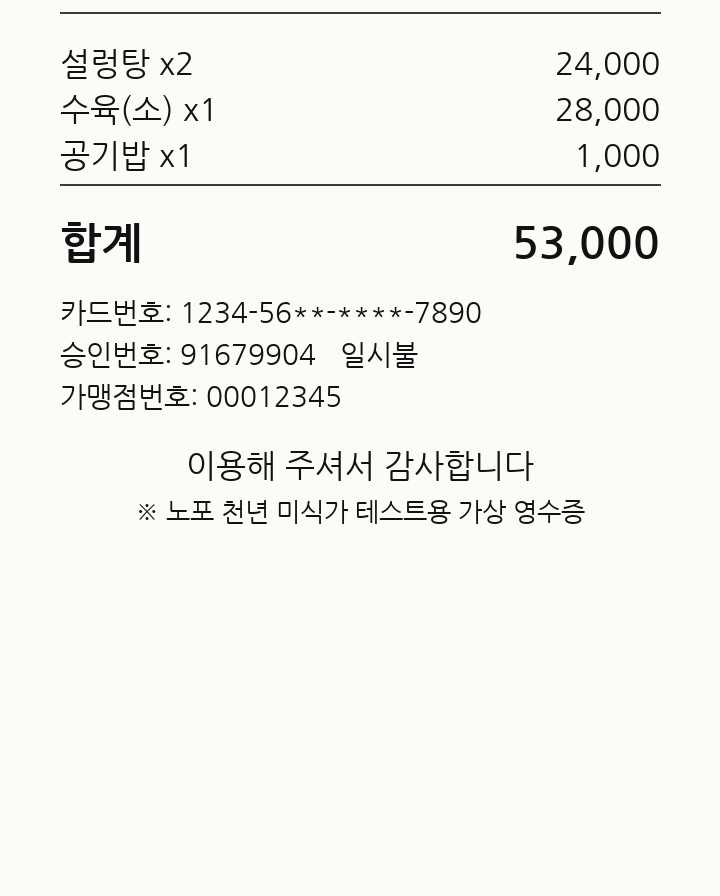
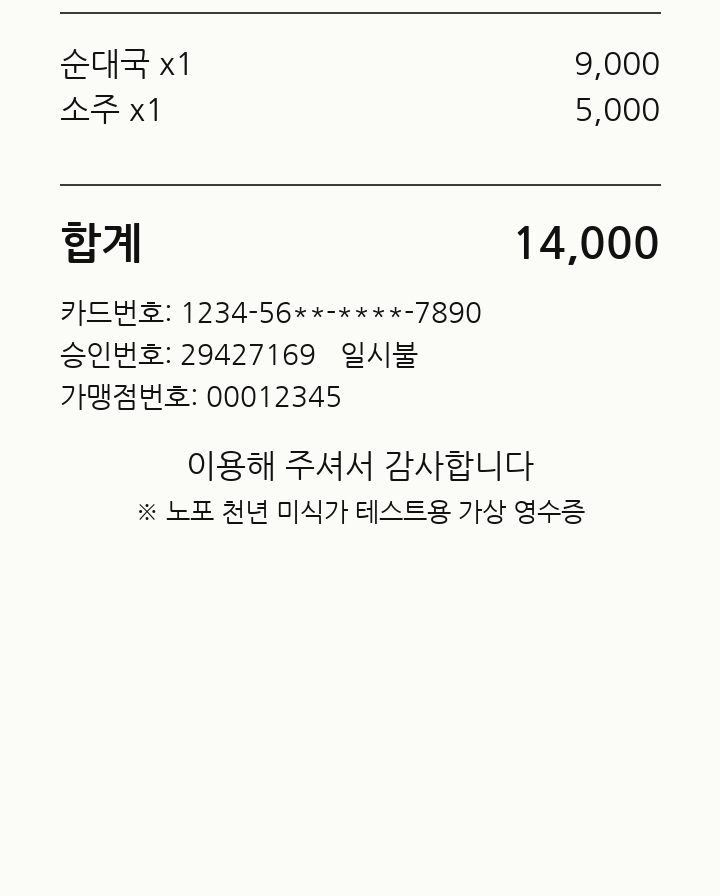
시연 시나리오 전면 재정리: 영수증 3종+AI 도우미 시나리오 10개, 시나리오 페이지·가이드 갱신

diff --git a/tools/test-images/demo_scenarios.html b/tools/test-images/demo_scenarios.html
@@ -1,19 +1,42 @@
 <!doctype html>
 <html lang="ko"><head><meta charset="utf-8"><meta name="viewport" content="width=device-width,initial-scale=1">
-<title>노포 천년 미식가 시연 시나리오 (2026-10-21 09:56)</title>
+<title>노포 천년 미식가 시연 시나리오 (2026-10-21 10:38)</title>
 <style>
-body{margin:0;background:#1d2b28;color:#eef;font-family:'Noto Sans KR','Malgun Gothic',sans-serif}
-nav{position:sticky;top:0;background:#12201d;padding:10px 16px;display:flex;gap:8px;flex-wrap:wrap}
-nav button{background:#2f6f66;color:#fff;border:0;border-radius:8px;padding:10px 14px;font-size:16px;cursor:pointer}
-section{display:none;text-align:center;padding:12px}
-section.on{display:block}
-img{max-height:86vh;max-width:100%;border:6px solid #fff;border-radius:6px}
-h2{margin:6px 0} p{margin:0 0 10px;color:#bcd}
+*{box-sizing:border-box}
+body{margin:0;background:#14221f;color:#eef3f2;font-family:'Noto Sans KR','Malgun Gothic',sans-serif;display:flex;height:100vh}
+aside{width:300px;background:#0e1a18;overflow:auto;padding:12px}
+aside h3{margin:14px 6px 6px;color:#9bc;font-size:13px}
+aside button{display:block;width:100%;text-align:left;background:#1c332f;color:#fff;border:0;border-radius:8px;padding:10px 12px;margin:4px 0;font-size:15px;cursor:pointer}
+aside button.on{background:#2f7f73}
+main{flex:1;overflow:auto;padding:18px 24px;display:flex;gap:24px}
+.info{width:380px;flex:none}
+.info h1{font-size:22px;margin:0 0 10px}
+.info ol{padding-left:20px;line-height:1.6}
+.expect{background:#1c332f;border-left:4px solid #e0b64a;padding:10px 12px;border-radius:6px;margin-top:14px;line-height:1.5}
+.stage{flex:1;text-align:center}
+.stage .tabs button{background:#2f7f73;color:#fff;border:0;border-radius:8px;padding:8px 14px;margin:0 4px 10px;font-size:15px;cursor:pointer}
+.stage .tabs button.on{background:#e0b64a;color:#111}
+.stage img{max-height:88vh;max-width:100%;border:6px solid #fff;border-radius:6px}
+.noimg{color:#9bc;margin-top:30vh;font-size:18px}
+small{color:#9bc}
 </style></head><body>
-<nav><button onclick="show(0)">①</button><button onclick="show(1)">②</button><button onclick="show(2)">③</button><button onclick="show(3)">⑤</button><button onclick="show(4)">⑥</button><button onclick="show(5)">⑦</button><button onclick="show(6)">④</button><button onclick="show(7)">④</button></nav>
-<section><h2>① 영수증 잘 찍힘 → 바로 인증</h2><p>영수증 인증 → 도장 → 리뷰 작성</p><img src="test_receipt_today.png" alt="① 영수증 잘 찍힘 → 바로 인증"></section><section><h2>② 영수증 24시간 지남</h2><p>E_RECEIPT_EXPIRED 안내 → 가게 사진 인증으로 이어가기</p><img src="test_receipt_expired.png" alt="② 영수증 24시간 지남"></section><section><h2>③ 다른 가게 영수증</h2><p>E_RECEIPT_MISMATCH 안내</p><img src="test_receipt_other.png" alt="③ 다른 가게 영수증"></section><section><h2>⑤ 위쪽이 잘린 영수증 (AI 촬영 도우미)</h2><p>가게 이름이 잘려 인식 실패 → AI가 '위쪽까지 찍어 주세요' 안내</p><img src="test_receipt_cut_top.png" alt="⑤ 위쪽이 잘린 영수증 (AI 촬영 도우미)"></section><section><h2>⑥ 흐린 영수증 (AI 촬영 도우미)</h2><p>글자가 흐려 인식 실패 → AI가 초점·거리 안내</p><img src="test_receipt_blur.png" alt="⑥ 흐린 영수증 (AI 촬영 도우미)"></section><section><h2>⑦ 어두운 영수증 (AI 촬영 도우미)</h2><p>너무 어두워 인식 실패 → AI가 밝은 곳 안내</p><img src="test_receipt_dark.png" alt="⑦ 어두운 영수증 (AI 촬영 도우미)"></section><section><h2>④ 메뉴판(가게 사진 인증용)</h2><p>위치 확인 → 가게 사진 인증(간판·메뉴판)</p><img src="test_menuboard.png" alt="④ 메뉴판(가게 사진 인증용)"></section><section><h2>④ 간판(가게 사진 인증용)</h2><p>위치 확인 → 가게 사진 인증(간판·메뉴판)</p><img src="test_sign.png" alt="④ 간판(가게 사진 인증용)"></section>
+<aside id="nav"></aside>
+<main><div class="info"><h1 id="t"></h1><ol id="s"></ol><div class="expect" id="e"></div><p><small>생성 2026-10-21 10:38 · 영수증은 이 시각부터 24시간 안에만 유효</small></p></div>
+<div class="stage"><div class="tabs" id="tabs"></div><div id="img"></div></div></main>
 <script>
-const s=[...document.querySelectorAll('section')];
-function show(i){s.forEach((e,j)=>e.classList.toggle('on',i===j));}
-show(0);
+const S=[{"id": "1", "group": "영수증·인증", "title": "인증 전에는 리뷰를 쓸 수 없다", "steps": ["지도 탐색 > 목록 > 맨 위 노포천년테스트식당(0m) 열기", "아래로 내려 \"평점과 리뷰\" 확인"], "expect": "\"방문 인증한 사람만 평점을 남길 수 있어요\" 안내만 보이고 작성 버튼이 없다. 예시 리뷰 12개·재방문율 33%는 보인다.", "images": []}, {"id": "2", "group": "영수증·인증", "title": "영수증이 잘 찍혀 바로 인증 (스캔 연출 → 도장 → 폭죽 → 리뷰)", "steps": ["방문 인증하기 > 영수증 촬영 화면", "아래 \"정상 영수증 A\"를 모니터에 크게 띄우고 틀 안에 맞춰 촬영하기", "빨간 레이저가 영수증을 위아래로 훑고 → 읽은 글자에 형광펜이 칠해지는 것을 보여 준다", "도장이 쾅 찍힘(진동) → 폭죽·색종이 → \"평점·리뷰 남기기\" 누르기", "리뷰 편집기에서 별점·글 + 사진(카메라/앨범 최대 3장) 저장"], "expect": "스캔 연출 → 도장(46년 아님: 시험용 가게라 세월·하루 한도에는 안 들어감) → 폭죽 → 리뷰 작성. 내 리뷰는 이 기기에만 저장되고 평균에 합쳐진다.", "images": [["정상 영수증 A", "test_receipt_a.png"]]}, {"id": "3", "group": "영수증·인증", "title": "영수증 위쪽이 잘렸을 때 → AI 촬영 도우미 → 다시 찍어 성공", "steps": ["방문 인증하기 > \"위쪽이 잘린 영수증\" 촬영", "형광펜 연출 뒤 오류 문구와 함께 AI 촬영 도우미 팝업이 뜬다(처음이면 전송 동의 창이 먼저)", "팝업의 \"다시 찍기\" 누르기 → 카메라로 복귀", "\"정상 영수증 B\"를 촬영해 인증 성공"], "expect": "AI가 \"가게 이름이 잘렸어요, 영수증 위쪽까지 담아 주세요\" 같은 한두 문장을 알려 준다. 다시 찍으면 성공.", "images": [["위쪽 잘림", "test_receipt_cut_top.png"], ["정상 영수증 B", "test_receipt_b.png"]]}, {"id": "4", "group": "영수증·인증", "title": "영수증이 흐리거나 어두울 때 → AI 촬영 도우미", "steps": ["방문 인증하기 > \"흐린 영수증\" 촬영 → 팝업 확인", "다시 찍기 > \"어두운 영수증\" 촬영 → 팝업 확인"], "expect": "흐림은 \"초점·평평하게\", 어두움은 \"밝은 곳에서\" 같은 원인별 안내가 나온다.", "images": [["흐린 영수증", "test_receipt_blur.png"], ["어두운 영수증", "test_receipt_dark.png"]]}, {"id": "5", "group": "영수증·인증", "title": "다른 가게 영수증 / 24시간 지난 영수증", "steps": ["\"다른 가게 영수증(행복분식)\" 촬영 → \"영수증의 가게 이름이 달라요\" + AI 안내", "\"24시간 지난 영수증\" 촬영 → \"영수증이 24시간이 지났어요\""], "expect": "각각 E_RECEIPT_MISMATCH, E_RECEIPT_EXPIRED 안내. 기록은 남지 않는다.", "images": [["다른 가게(행복분식)", "test_receipt_other.png"], ["24시간 지남", "test_receipt_expired.png"]]}, {"id": "6", "group": "영수증·인증", "title": "영수증이 없거나 계속 안 될 때 → 가게 사진 + 위치(30m)로 인증", "steps": ["영수증 화면에서 \"영수증이 없어요\" > 내 위치 확인(테스트 가게는 지금 서 있는 자리라 거리 0m)", "간판 또는 메뉴판 촬영(아래 그림을 모니터에 띄움)", "글자 확인이 3번 실패하면(일부러 엉뚱한 곳 촬영) \"위치 확인 도장\" 선택지가 나온다(설정 스위치로 끌 수 있음)"], "expect": "도장(인증 방법: 가게 사진 또는 위치 확인) → 같은 폭죽 연출 → 리뷰 작성.", "images": [["메뉴판", "test_menuboard.png"], ["간판", "test_sign.png"]]}, {"id": "7", "group": "AI 기능", "title": "AI 번역 (외국인 친구에게 보여 주기)", "steps": ["아무 가게 상세 > 소개글 아래 \"AI 번역\" > English / 日本語 / 简体中文 …", "\"직접 입력\"으로 Thai 같은 언어도 시도", "\"원문 보기\"로 되돌리기"], "expect": "소개글·한 줄 소개·리뷰가 선택한 언어로 바뀌고, 메뉴 이름은 원어가 괄호로 붙는다.", "images": []}, {"id": "8", "group": "AI 기능", "title": "AI 노포 도우미 (지도 맨 위)", "steps": ["지도 탭 맨 위 \"AI 노포 도우미\" 열기", "칩 3개를 차례로: 말로 찾기(비 오는 날 종로…) / 천년 경로(남은 세월 채우는 코스) / 오늘의 노포 코스(지금 위치·영업시간)", "추천 카드를 눌러 가게 상세로 이동", "앱을 껐다 켜서 다시 열면 이전 대화가 그대로", "\"기록 지우기\""], "expect": "후보 가게 안에서만 추천(지어낸 가게 없음), 대화는 이 기기에만 저장.", "images": []}, {"id": "9", "group": "AI 기능", "title": "AI 메뉴 룰렛 · 가게 리뷰 AI 분석", "steps": ["내 패스포트 > \"AI 메뉴 룰렛\" > 룰렛 돌리기(분석 후 메뉴 3개 + 이유·주재료)", "\"마음에 안 들어요, 다시 돌리기\"를 여러 번(최대 10번 = 서로 다른 메뉴 30개)", "리뷰가 많은 가게(송파구 가게·테스트 가게) 상세 > \"AI로 리뷰 분석하기\""], "expect": "룰렛은 앞서 나온 메뉴가 다시 안 나오고 \"본 메뉴 n/30\"이 올라간다. 리뷰 분석은 특장점·추천 메뉴·아쉬운 점·어울리는 사람을 보여 준다.", "images": []}, {"id": "10", "group": "연출·패스포트", "title": "칭호 11단계·도감·승급 연출, 공유 카드, 명예의 전당", "steps": ["내 패스포트 > 칭호 배지 누르기 > 칭호 도감 > 아무 칭호를 눌러 승급 연출 미리보기", "설정 5탭 > 개발자 도구 > \"연출 미리보기: 금빛 도장 + 칭호 승급\"(도장 → 폭죽 → 승급)", "패스포트 > \"패스포트 카드 공유\"(QR 포함) / \"식객 명예의 전당 보기\""], "expect": "100년마다 바뀌는 11개 칭호와 배지 색, 화려한 승급 연출, 공유 카드(QR), 시연용 순위.", "images": []}];
+const nav=document.getElementById('nav');let cur=0,sub=0;
+let lastGroup='';
+S.forEach((sc,i)=>{if(sc.group!==lastGroup){nav.insertAdjacentHTML('beforeend','<h3>'+sc.group+'</h3>');lastGroup=sc.group}
+ const b=document.createElement('button');b.textContent=sc.id+'. '+sc.title;b.onclick=()=>{cur=i;sub=0;render()};b.id='b'+i;nav.appendChild(b)});
+function render(){const sc=S[cur];
+ S.forEach((_,i)=>document.getElementById('b'+i).classList.toggle('on',i===cur));
+ document.getElementById('t').textContent=sc.id+'. '+sc.title;
+ document.getElementById('s').innerHTML=sc.steps.map(x=>'<li>'+x+'</li>').join('');
+ document.getElementById('e').innerHTML='<b>기대 결과</b><br>'+sc.expect;
+ const tabs=document.getElementById('tabs');tabs.innerHTML='';
+ sc.images.forEach((im,j)=>{const b=document.createElement('button');b.textContent=im[0];b.className=j===sub?'on':'';b.onclick=()=>{sub=j;render()};tabs.appendChild(b)});
+ document.getElementById('img').innerHTML=sc.images.length?'<img src="'+sc.images[sub][1]+'">':'<div class="noimg">이 시나리오는 그림 없이 앱에서 직접 진행해요</div>';}
+document.addEventListener('keydown',e=>{if(e.key==='ArrowDown'){cur=Math.min(S.length-1,cur+1);sub=0;render()}if(e.key==='ArrowUp'){cur=Math.max(0,cur-1);sub=0;render()}});
+render();
 </script></body></html>

diff --git a/tools/gen_test_receipt.py b/tools/gen_test_receipt.py
@@ -1,15 +1,18 @@
 #!/usr/bin/env python3
-"""시연·시험용 가상 영수증·간판·메뉴판 만들기. 다른 화면(모니터)에 띄우고 앱 카메라로 찍는다.
+"""시연·시험용 가상 영수증·간판·메뉴판과 시연 시나리오 페이지 만들기. 다른 화면(모니터)에 띄우고 앱 카메라로 찍는다.
 
-    python tools/gen_test_receipt.py   ->  tools/test-images/ 아래에
-        test_receipt_today.png    현재 시각 영수증 (24시간 안에 사용)          -> 영수증 인증 성공
-        test_receipt_expired.png   50시간 전 영수증                              -> E_RECEIPT_EXPIRED
-        test_receipt_other.png     다른 가게(행복분식) 영수증, 현재 시각           -> E_RECEIPT_MISMATCH
-        test_menuboard.png         메뉴판(가게 이름 포함)                         -> 가게 사진 인증(간판·메뉴판)
-        demo_scenarios.html        위 그림을 시나리오별로 크게 보여 주는 시연용 페이지
+    python tools/gen_test_receipt.py   ->  tools/test-images/ 아래에 (모두 노포천년테스트식당 기준, 만든 시각부터 24시간 안에 사용)
+        test_receipt_a.png / _b.png / _c.png   정상 영수증 3장(서로 다른 내용 → 인증을 여러 번 시연할 수 있음)
+        test_receipt_cut_top.png               위쪽이 잘린 영수증      -> 가게 이름 안 보임 → AI 촬영 도우미
+        test_receipt_blur.png                  흐린 영수증             -> 글자 인식 실패 → AI 촬영 도우미
+        test_receipt_dark.png                  어두운 영수증           -> 글자 인식 실패 → AI 촬영 도우미
+        test_receipt_expired.png               50시간 전 영수증        -> E_RECEIPT_EXPIRED
+        test_receipt_other.png                 다른 가게(행복분식) 영수증 -> E_RECEIPT_MISMATCH + AI 촬영 도우미
+        test_menuboard.png / test_sign.png     메뉴판·간판            -> 가게 사진 인증(영수증이 안 될 때)
+        demo_scenarios.html                    시나리오별 단계·기대 결과·보여 줄 그림(모니터에 띄우는 시연용 페이지)
 
-가게는 설정 개발자 도구의 "테스트 가게 만들기 (현재 위치)"로 만든 `노포천년테스트식당`.
-같은 영수증을 두 번 쓰면 중복 영수증으로 막히므로(E_RECEIPT_DUP) 다시 시험할 때는 이 스크립트를 다시 실행한다.
+가게는 설정 개발자 도구의 "테스트 가게 만들기 (현재 위치)"로 만든 `노포천년테스트식당`(지금 서 있는 자리에 생김 → 위치 30m 시험 가능).
+시연 직전에 이 스크립트를 다시 실행해 영수증 시각을 새로 만든다.
 """
 import datetime, os, random
 
@@ -94,58 +97,152 @@ def menuboard(path):
     img.save(path)
 
 
+SCENARIOS = [
+    {
+        "id": "1", "group": "영수증·인증", "title": "인증 전에는 리뷰를 쓸 수 없다",
+        "steps": ["지도 탐색 > 목록 > 맨 위 노포천년테스트식당(0m) 열기", "아래로 내려 \"평점과 리뷰\" 확인"],
+        "expect": "\"방문 인증한 사람만 평점을 남길 수 있어요\" 안내만 보이고 작성 버튼이 없다. 예시 리뷰 12개·재방문율 33%는 보인다.",
+        "images": [],
+    },
+    {
+        "id": "2", "group": "영수증·인증", "title": "영수증이 잘 찍혀 바로 인증 (스캔 연출 → 도장 → 폭죽 → 리뷰)",
+        "steps": ["방문 인증하기 > 영수증 촬영 화면", "아래 \"정상 영수증 A\"를 모니터에 크게 띄우고 틀 안에 맞춰 촬영하기",
+                  "빨간 레이저가 영수증을 위아래로 훑고 → 읽은 글자에 형광펜이 칠해지는 것을 보여 준다", "도장이 쾅 찍힘(진동) → 폭죽·색종이 → \"평점·리뷰 남기기\" 누르기",
+                  "리뷰 편집기에서 별점·글 + 사진(카메라/앨범 최대 3장) 저장"],
+        "expect": "스캔 연출 → 도장(46년 아님: 시험용 가게라 세월·하루 한도에는 안 들어감) → 폭죽 → 리뷰 작성. 내 리뷰는 이 기기에만 저장되고 평균에 합쳐진다.",
+        "images": [("정상 영수증 A", "test_receipt_a.png")],
+    },
+    {
+        "id": "3", "group": "영수증·인증", "title": "영수증 위쪽이 잘렸을 때 → AI 촬영 도우미 → 다시 찍어 성공",
+        "steps": ["방문 인증하기 > \"위쪽이 잘린 영수증\" 촬영", "형광펜 연출 뒤 오류 문구와 함께 AI 촬영 도우미 팝업이 뜬다(처음이면 전송 동의 창이 먼저)",
+                  "팝업의 \"다시 찍기\" 누르기 → 카메라로 복귀", "\"정상 영수증 B\"를 촬영해 인증 성공"],
+        "expect": "AI가 \"가게 이름이 잘렸어요, 영수증 위쪽까지 담아 주세요\" 같은 한두 문장을 알려 준다. 다시 찍으면 성공.",
+        "images": [("위쪽 잘림", "test_receipt_cut_top.png"), ("정상 영수증 B", "test_receipt_b.png")],
+    },
+    {
+        "id": "4", "group": "영수증·인증", "title": "영수증이 흐리거나 어두울 때 → AI 촬영 도우미",
+        "steps": ["방문 인증하기 > \"흐린 영수증\" 촬영 → 팝업 확인", "다시 찍기 > \"어두운 영수증\" 촬영 → 팝업 확인"],
+        "expect": "흐림은 \"초점·평평하게\", 어두움은 \"밝은 곳에서\" 같은 원인별 안내가 나온다.",
+        "images": [("흐린 영수증", "test_receipt_blur.png"), ("어두운 영수증", "test_receipt_dark.png")],
+    },
+    {
+        "id": "5", "group": "영수증·인증", "title": "다른 가게 영수증 / 24시간 지난 영수증",
+        "steps": ["\"다른 가게 영수증(행복분식)\" 촬영 → \"영수증의 가게 이름이 달라요\" + AI 안내", "\"24시간 지난 영수증\" 촬영 → \"영수증이 24시간이 지났어요\""],
+        "expect": "각각 E_RECEIPT_MISMATCH, E_RECEIPT_EXPIRED 안내. 기록은 남지 않는다.",
+        "images": [("다른 가게(행복분식)", "test_receipt_other.png"), ("24시간 지남", "test_receipt_expired.png")],
+    },
+    {
+        "id": "6", "group": "영수증·인증", "title": "영수증이 없거나 계속 안 될 때 → 가게 사진 + 위치(30m)로 인증",
+        "steps": ["영수증 화면에서 \"영수증이 없어요\" > 내 위치 확인(테스트 가게는 지금 서 있는 자리라 거리 0m)", "간판 또는 메뉴판 촬영(아래 그림을 모니터에 띄움)",
+                  "글자 확인이 3번 실패하면(일부러 엉뚱한 곳 촬영) \"위치 확인 도장\" 선택지가 나온다(설정 스위치로 끌 수 있음)"],
+        "expect": "도장(인증 방법: 가게 사진 또는 위치 확인) → 같은 폭죽 연출 → 리뷰 작성.",
+        "images": [("메뉴판", "test_menuboard.png"), ("간판", "test_sign.png")],
+    },
+    {
+        "id": "7", "group": "AI 기능", "title": "AI 번역 (외국인 친구에게 보여 주기)",
+        "steps": ["아무 가게 상세 > 소개글 아래 \"AI 번역\" > English / 日本語 / 简体中文 …", "\"직접 입력\"으로 Thai 같은 언어도 시도", "\"원문 보기\"로 되돌리기"],
+        "expect": "소개글·한 줄 소개·리뷰가 선택한 언어로 바뀌고, 메뉴 이름은 원어가 괄호로 붙는다.",
+        "images": [],
+    },
+    {
+        "id": "8", "group": "AI 기능", "title": "AI 노포 도우미 (지도 맨 위)",
+        "steps": ["지도 탭 맨 위 \"AI 노포 도우미\" 열기", "칩 3개를 차례로: 말로 찾기(비 오는 날 종로…) / 천년 경로(남은 세월 채우는 코스) / 오늘의 노포 코스(지금 위치·영업시간)",
+                  "추천 카드를 눌러 가게 상세로 이동", "앱을 껐다 켜서 다시 열면 이전 대화가 그대로", "\"기록 지우기\""],
+        "expect": "후보 가게 안에서만 추천(지어낸 가게 없음), 대화는 이 기기에만 저장.",
+        "images": [],
+    },
+    {
+        "id": "9", "group": "AI 기능", "title": "AI 메뉴 룰렛 · 가게 리뷰 AI 분석",
+        "steps": ["내 패스포트 > \"AI 메뉴 룰렛\" > 룰렛 돌리기(분석 후 메뉴 3개 + 이유·주재료)", "\"마음에 안 들어요, 다시 돌리기\"를 여러 번(최대 10번 = 서로 다른 메뉴 30개)",
+                  "리뷰가 많은 가게(송파구 가게·테스트 가게) 상세 > \"AI로 리뷰 분석하기\""],
+        "expect": "룰렛은 앞서 나온 메뉴가 다시 안 나오고 \"본 메뉴 n/30\"이 올라간다. 리뷰 분석은 특장점·추천 메뉴·아쉬운 점·어울리는 사람을 보여 준다.",
+        "images": [],
+    },
+    {
+        "id": "10", "group": "연출·패스포트", "title": "칭호 11단계·도감·승급 연출, 공유 카드, 명예의 전당",
+        "steps": ["내 패스포트 > 칭호 배지 누르기 > 칭호 도감 > 아무 칭호를 눌러 승급 연출 미리보기", "설정 5탭 > 개발자 도구 > \"연출 미리보기: 금빛 도장 + 칭호 승급\"(도장 → 폭죽 → 승급)",
+                  "패스포트 > \"패스포트 카드 공유\"(QR 포함) / \"식객 명예의 전당 보기\""],
+        "expect": "100년마다 바뀌는 11개 칭호와 배지 색, 화려한 승급 연출, 공유 카드(QR), 시연용 순위.",
+        "images": [],
+    },
+]
+
+
 def scenarios_html(path, stamp):
-    items = [
-        ("① 영수증 잘 찍힘 → 바로 인증", "test_receipt_today.png", "영수증 인증 → 도장 → 리뷰 작성"),
-        ("② 영수증 24시간 지남", "test_receipt_expired.png", "E_RECEIPT_EXPIRED 안내 → 가게 사진 인증으로 이어가기"),
-        ("③ 다른 가게 영수증", "test_receipt_other.png", "E_RECEIPT_MISMATCH 안내"),
-        ("⑤ 위쪽이 잘린 영수증 (AI 촬영 도우미)", "test_receipt_cut_top.png", "가게 이름이 잘려 인식 실패 → AI가 '위쪽까지 찍어 주세요' 안내"),
-        ("⑥ 흐린 영수증 (AI 촬영 도우미)", "test_receipt_blur.png", "글자가 흐려 인식 실패 → AI가 초점·거리 안내"),
-        ("⑦ 어두운 영수증 (AI 촬영 도우미)", "test_receipt_dark.png", "너무 어두워 인식 실패 → AI가 밝은 곳 안내"),
-        ("④ 메뉴판(가게 사진 인증용)", "test_menuboard.png", "위치 확인 → 가게 사진 인증(간판·메뉴판)"),
-        ("④ 간판(가게 사진 인증용)", "test_sign.png", "위치 확인 → 가게 사진 인증(간판·메뉴판)"),
-    ]
-    cards = "".join(
-        f'<section><h2>{t}</h2><p>{d}</p><img src="{f}" alt="{t}"></section>' for t, f, d in items
-    )
-    open(path, "w", encoding="utf-8").write(f"""<!doctype html>
+    import html as H, json
+    data = json.dumps(SCENARIOS, ensure_ascii=False)
+    groups = []
+    for sc in SCENARIOS:
+        if sc["group"] not in groups:
+            groups.append(sc["group"])
+    open(path, "w", encoding="utf-8").write("""<!doctype html>
 <html lang="ko"><head><meta charset="utf-8"><meta name="viewport" content="width=device-width,initial-scale=1">
-<title>노포 천년 미식가 시연 시나리오 ({stamp})</title>
+<title>노포 천년 미식가 시연 시나리오 (""" + stamp + """)</title>
 <style>
-body{{margin:0;background:#1d2b28;color:#eef;font-family:'Noto Sans KR','Malgun Gothic',sans-serif}}
-nav{{position:sticky;top:0;background:#12201d;padding:10px 16px;display:flex;gap:8px;flex-wrap:wrap}}
-nav button{{background:#2f6f66;color:#fff;border:0;border-radius:8px;padding:10px 14px;font-size:16px;cursor:pointer}}
-section{{display:none;text-align:center;padding:12px}}
-section.on{{display:block}}
-img{{max-height:86vh;max-width:100%;border:6px solid #fff;border-radius:6px}}
-h2{{margin:6px 0}} p{{margin:0 0 10px;color:#bcd}}
+*{box-sizing:border-box}
+body{margin:0;background:#14221f;color:#eef3f2;font-family:'Noto Sans KR','Malgun Gothic',sans-serif;display:flex;height:100vh}
+aside{width:300px;background:#0e1a18;overflow:auto;padding:12px}
+aside h3{margin:14px 6px 6px;color:#9bc;font-size:13px}
+aside button{display:block;width:100%;text-align:left;background:#1c332f;color:#fff;border:0;border-radius:8px;padding:10px 12px;margin:4px 0;font-size:15px;cursor:pointer}
+aside button.on{background:#2f7f73}
+main{flex:1;overflow:auto;padding:18px 24px;display:flex;gap:24px}
+.info{width:380px;flex:none}
+.info h1{font-size:22px;margin:0 0 10px}
+.info ol{padding-left:20px;line-height:1.6}
+.expect{background:#1c332f;border-left:4px solid #e0b64a;padding:10px 12px;border-radius:6px;margin-top:14px;line-height:1.5}
+.stage{flex:1;text-align:center}
+.stage .tabs button{background:#2f7f73;color:#fff;border:0;border-radius:8px;padding:8px 14px;margin:0 4px 10px;font-size:15px;cursor:pointer}
+.stage .tabs button.on{background:#e0b64a;color:#111}
+.stage img{max-height:88vh;max-width:100%;border:6px solid #fff;border-radius:6px}
+.noimg{color:#9bc;margin-top:30vh;font-size:18px}
+small{color:#9bc}
 </style></head><body>
-<nav>{''.join(f'<button onclick="show({i})">{t.split(" ")[0]}</button>' for i, (t, _, _) in enumerate(items))}</nav>
-{cards}
+<aside id="nav"></aside>
+<main><div class="info"><h1 id="t"></h1><ol id="s"></ol><div class="expect" id="e"></div><p><small>생성 """ + stamp + """ · 영수증은 이 시각부터 24시간 안에만 유효</small></p></div>
+<div class="stage"><div class="tabs" id="tabs"></div><div id="img"></div></div></main>
 <script>
-const s=[...document.querySelectorAll('section')];
-function show(i){{s.forEach((e,j)=>e.classList.toggle('on',i===j));}}
-show(0);
+const S=""" + data + """;
+const nav=document.getElementById('nav');let cur=0,sub=0;
+let lastGroup='';
+S.forEach((sc,i)=>{if(sc.group!==lastGroup){nav.insertAdjacentHTML('beforeend','<h3>'+sc.group+'</h3>');lastGroup=sc.group}
+ const b=document.createElement('button');b.textContent=sc.id+'. '+sc.title;b.onclick=()=>{cur=i;sub=0;render()};b.id='b'+i;nav.appendChild(b)});
+function render(){const sc=S[cur];
+ S.forEach((_,i)=>document.getElementById('b'+i).classList.toggle('on',i===cur));
+ document.getElementById('t').textContent=sc.id+'. '+sc.title;
+ document.getElementById('s').innerHTML=sc.steps.map(x=>'<li>'+x+'</li>').join('');
+ document.getElementById('e').innerHTML='<b>기대 결과</b><br>'+sc.expect;
+ const tabs=document.getElementById('tabs');tabs.innerHTML='';
+ sc.images.forEach((im,j)=>{const b=document.createElement('button');b.textContent=im[0];b.className=j===sub?'on':'';b.onclick=()=>{sub=j;render()};tabs.appendChild(b)});
+ document.getElementById('img').innerHTML=sc.images.length?'<img src="'+sc.images[sub][1]+'">':'<div class="noimg">이 시나리오는 그림 없이 앱에서 직접 진행해요</div>';}
+document.addEventListener('keydown',e=>{if(e.key==='ArrowDown'){cur=Math.min(S.length-1,cur+1);sub=0;render()}if(e.key==='ArrowUp'){cur=Math.max(0,cur-1);sub=0;render()}});
+render();
 </script></body></html>
 """)
 
 
 now = datetime.datetime.now()
 os.makedirs(OUT, exist_ok=True)
+for old in os.listdir(OUT):          # 지난 시나리오의 낡은 그림·페이지를 모두 지운다 (test_sign.png는 유지)
+    if old != "test_sign.png" and (old.startswith("test_") or old == "demo_scenarios.html"):
+        os.remove(os.path.join(OUT, old))
 seed = now.strftime("%Y%m%d%H%M%S")
-receipt(os.path.join(OUT, "test_receipt_today.png"), "노포천년테스트식당", "123-45-67891", "02-000-0000", "서울특별시 중구 세종대로 110",
-        now, [("설렁탕 x2", 24000), ("수육(소) x1", 28000), ("공기밥 x1", 1000)], seed + "a")
-receipt(os.path.join(OUT, "test_receipt_expired.png"), "노포천년테스트식당", "123-45-67891", "02-000-0000", "서울특별시 중구 세종대로 110",
-        now - datetime.timedelta(hours=50), [("설렁탕 x1", 12000), ("도가니탕 x1", 15000)], seed + "b")
+SHOP = ("노포천년테스트식당", "123-45-67891", "02-000-0000", "서울특별시 중구 세종대로 110")
+receipt(os.path.join(OUT, "test_receipt_a.png"), *SHOP, now, [("설렁탕 x2", 24000), ("수육(소) x1", 28000), ("공기밥 x1", 1000)], seed + "a")
+receipt(os.path.join(OUT, "test_receipt_b.png"), *SHOP, now, [("도가니탕 x1", 15000), ("설렁탕 x1", 12000), ("깍두기 추가 x1", 2000)], seed + "b")
+receipt(os.path.join(OUT, "test_receipt_c.png"), *SHOP, now, [("수육(대) x1", 38000), ("공기밥 x3", 3000)], seed + "c")
+receipt(os.path.join(OUT, "test_receipt_expired.png"), *SHOP, now - datetime.timedelta(hours=50), [("설렁탕 x1", 12000), ("도가니탕 x1", 15000)], seed + "d")
 receipt(os.path.join(OUT, "test_receipt_other.png"), "행복분식", "222-33-44556", "02-111-2222", "서울특별시 종로구 종로 1",
-        now, [("김밥 x2", 7000), ("떡볶이 x1", 5000), ("어묵 x1", 3000)], seed + "c")
-# AI 촬영 도우미 시연용: 같은 영수증을 일부러 망가뜨린다(위쪽 잘림·흐림·어두움)
-from PIL import Image, ImageEnhance, ImageFilter
-base = Image.open(os.path.join(OUT, "test_receipt_today.png")).convert("RGB")
+        now, [("김밥 x2", 7000), ("떡볶이 x1", 5000), ("어묵 x1", 3000)], seed + "e")
+# AI 촬영 도우미 시연용: 같은 영수증을 일부러 망가뜨린다(위쪽 잘림·흐림·어두움). 정상 영수증과 내용이 달라 인증에 쓰이지 않는다.
+from PIL import ImageEnhance, ImageFilter
+broken = Image.new("RGB", (1, 1))
+receipt(os.path.join(OUT, "_tmp_broken.png"), *SHOP, now, [("순대국 x1", 9000), ("소주 x1", 5000)], seed + "f")
+base = Image.open(os.path.join(OUT, "_tmp_broken.png")).convert("RGB")
 w, h = base.size
 base.crop((0, int(h * 0.30), w, h)).save(os.path.join(OUT, "test_receipt_cut_top.png"))
 base.filter(ImageFilter.GaussianBlur(7)).save(os.path.join(OUT, "test_receipt_blur.png"))
 ImageEnhance.Brightness(base).enhance(0.18).save(os.path.join(OUT, "test_receipt_dark.png"))
+os.remove(os.path.join(OUT, "_tmp_broken.png"))
 menuboard(os.path.join(OUT, "test_menuboard.png"))
 scenarios_html(os.path.join(OUT, "demo_scenarios.html"), now.strftime("%Y-%m-%d %H:%M"))
 print("생성:", now.strftime("%Y-%m-%d %H:%M"), "->", OUT)

diff --git a/docs/demo-guide.md b/docs/demo-guide.md
@@ -14,27 +14,33 @@
 - 시연 직전에 앱에서 직접 가입하세요(이메일 형식이면 아무 값, 비밀번호 영문+숫자 8자 이상, 닉네임 2~12자).
 - 시험 계정은 설정 > 회원 탈퇴로 삭제할 수 있음.
 
-## 3. 시연 시나리오 (5분)
-1. **온보딩 → 가입**: 3장 소개 → 회원가입 → 지도가 바로 열림.
-2. **지도 탐색**: 필터 칩(음식점만/백년가게/오래가게/안 가 본 곳) → 검색창에 "설렁탕" → 목록(가까운 순/업력 순) → 지도로 돌아와 마커 탭 → 하단 시트(업력·배지·보상).
-3. **노포 상세**: 큰 업력("111년"), 배지, 보상 박스("방문 인증하면 세월 +111년 · 다음 칭호까지 189년"), 영업시간·메뉴·길찾기.
-4. **방문 인증** (심사위원 앞에서 실제 인증을 보이려면 테스트 가게 사용):
-   - 설정 > 앱 정보를 5번 탭 > "테스트 가게 만들기(현재 위치)".
-   - 지도 탐색 > 목록 > 맨 위 "노포천년테스트식당(0m)" > 방문 인증하기.
-   - 영수증: `tools\test-images\test_receipt_live.html`을 다른 화면(노트북)에 띄우고 촬영 → 도장.
-   - 또는 "영수증이 없어요" → 내 위치 확인 → 간판 사진 → (글자 인식이 안 되면 3번 뒤 "위치 확인 도장").
-5. **도장 연출**: 380ms 찍힘·세월 숫자 올라감·진동 → 내 패스포트에서 게이지·칭호·도장 격자·도장 상세.
-6. **리뷰** (실제 가게 인증 기록이 서버에 있어야 함): 방문 후 상세 > 평점 남기기 → 평균 평점·리뷰 목록 → 닉네임 탭 → 유저 프로필.
-7. **복원**: 앱 삭제 후 다시 설치·로그인하면 세월·도장이 돌아옴.
+## 3. 시연 준비 (시연 30분 전)
+1. 최신 릴리스 APK 설치(위 1번). 위치·카메라 권한 허용, GPS 켜기, 인터넷 연결. 폰의 **자동 회전은 세로 고정** 권장.
+2. 로그인(시연 계정) 후 **설정 앱 정보 5번 탭 > 개발자 도구**:
+   - "시연용 패스포트 채우기(637년)" — 패스포트·명예의 전당·AI 룰렛에 쓸 데이터.
+   - "테스트 가게·기록 삭제" → "**테스트 가게 만들기 (현재 위치)**" — `노포천년테스트식당`이 **지금 서 있는 자리**에 생긴다(위치 30m 시험용). 시연 장소에 도착한 뒤 만들 것. 장소를 옮기면 다시 만든다.
+3. PC에서 `python tools/gen_test_receipt.py` 실행(영수증 시각을 새로 만듦, 지난 그림은 자동 삭제) → 브라우저로 `tools/test-images/demo_scenarios.html` 열기(모니터 가득, 왼쪽에서 시나리오 선택, ↑↓ 키로 이동, 영수증은 틀 안에 크게).
+4. 처음 AI 기능을 쓸 때 "AI 분석 안내" 동의 창이 뜬다(한 번만). 시연 전에 미리 동의해 두면 매끄럽다.
 
-## 3-1. 새로 들어간 볼거리 (2026-10-20)
-- **재방문율:** 가게 상세의 평점 영역에 "재방문 K명 / 방문 N명"(방문자 5명 이상이면 퍼센트). 같은 사용자가 다른 날 다시 인증하면 K가 올라간다.
-- **칭호 승급 연출:** 세월 경계(100·300·600·1,000년)를 넘는 인증 직후 팝업. 시연 때는 설정 > 앱 정보 5번 탭 > "가상 방문 기록"(디버그 빌드)으로 세월을 빠르게 쌓을 수 있다.
-- **도장 결과 화면:** 인증 전 → 후 세월, 천 년 게이지, 현재 칭호.
-- **방문 기록 공개 범위:** 설정 > 방문 기록 공개 범위(전체 / 횟수만 / 나만 보기). 다른 계정으로 프로필을 열어 보여 준다.
-- **프로필:** 가입일, 게이지, 다녀온 노포(등급 도장·첫 방문일·단골 횟수), 매긴 평점 탭.
-- **영수증 가이드 틀**, **가게 정보 오류 제보**, **서버 기록 복원 배너**(로그인 직후), **기기 시계 오차 경고**(10분 넘게 어긋날 때).
-- 시연 전에 `docs/nopo-09-real-device-qa.md` 13장 ★ 항목을 한 번씩 해 보고, 실패하면 시연에서 뺀다.
+## 3-1. 시연 시나리오 (모두 `demo_scenarios.html`에 단계·기대 결과·그림이 들어 있음)
+영수증·가게 사진은 모두 **노포천년테스트식당** 기준. 시험용 가게의 도장·리뷰는 서버에 올라가지 않고 세월·하루 한도에 들어가지 않는다. 같은 영수증을 두 번 쓰는 중복 차단(E_RECEIPT_DUP)은 서버 판정이라 시험용 가게에서는 보이지 않으므로 시연하지 않는다. 시나리오를 다시 하려면 "테스트 가게·기록 삭제 → 다시 만들기".
+
+| # | 시나리오 | 그림 | 핵심 확인 |
+|---|---|---|---|
+| 1 | 인증 전에는 리뷰 불가 | — | "방문 인증한 사람만 평점을 남길 수 있어요", 예시 리뷰·재방문율 33% |
+| 2 | 영수증 바로 성공 | 정상 영수증 A | **빨간 레이저 훑기 → 형광펜 → 도장 쾅(진동) → 폭죽 → "평점·리뷰 남기기" → 리뷰 + 사진 3장** |
+| 3 | 위쪽 잘림 → AI 촬영 도우미 → 다시 찍어 성공 | 위쪽 잘림 → 정상 영수증 B | 팝업 "가게 이름이 잘렸어요, 위쪽까지 찍어 주세요" 류 → "다시 찍기" |
+| 4 | 흐림·어두움 → AI 촬영 도우미 | 흐린 / 어두운 영수증 | 원인별 안내(초점·밝기) |
+| 5 | 다른 가게 / 24시간 지남 | 행복분식 영수증 / 50시간 전 영수증 | E_RECEIPT_MISMATCH(+AI 안내) / E_RECEIPT_EXPIRED |
+| 6 | 영수증 없이 → 가게 사진 + 위치(30m) | 메뉴판·간판 | 거리 0m → 간판/메뉴판 촬영 → 도장. 3번 실패 시 "위치 확인 도장" |
+| 7 | AI 번역 | — | 소개글·리뷰가 English/日本語/직접 입력 언어로, "원문 보기" |
+| 8 | AI 노포 도우미(지도 맨 위) | — | 말로 찾기 · 천년 경로 · 오늘의 코스, 추천 카드 → 상세, 앱 재시작 후에도 대화 기록 |
+| 9 | AI 메뉴 룰렛 · 리뷰 AI 분석 | — | 3개씩, 다시 돌리기 최대 10번(30개, 중복 없음) / 특장점·추천 메뉴·아쉬운 점 |
+| 10 | 칭호 도감·승급 연출·공유 카드·명예의 전당 | — | 11단계 칭호, 폭죽 승급 연출, QR 공유 카드, 시연용 순위 |
+
+권장 진행 순서(약 8분): 1 → 2 → 3 → 6 → 8 → 7 → 9 → 10 (4·5는 질문이 나오면). 영수증은 A·B·C 세 장이라 성공 시연을 세 번까지 할 수 있다.
+
+주의: 영수증 사진은 **인식에 실패했을 때만** AI 촬영 도우미를 위해 Gemini로 전송되고(동의 필요) 저장하지 않는다. 레이저·형광펜 위치는 촬영 순간의 장면 기준이라 사진이 비스듬하면 약간 어긋날 수 있다.
 
 ## 4. 시연 중 문제 대처
 | 증상 | 조치 |
@@ -50,32 +56,3 @@
 - 도장 등급: 30~49년 청록 / 50~99년 붉은 / 100년 이상 금빛. 칭호(100년마다): 첫술 식객 → 골목 단골(100) → 국밥 순례자(200) → 시장통 어르신(300) → 가마솥 감별사(400) → 노포 길잡이(500) → 맛의 장인(600) → 세월 지킴이(700) → 미식 도인(800) → 전설의 식객(900) → 천년 미식가(1,000).
 - 인증: 영수증(전화 일치 또는 상호 유사도 0.70 이상, 24시간 이내) / 가게 사진(30m 이내, 이름 유사도 0.60 이상 또는 전화) / 위치 확인.
 - 개인정보: 위치 좌표와 영수증 내용은 서버에 저장하지 않음.
-
-## 현재 위치 시연 가게 시나리오 (2026-10-20)
-준비: 설정 앱 정보 5탭 > 개발자 도구 > "테스트 가게·기록 삭제" → "테스트 가게 만들기 (현재 위치)". PC에서 `python tools/gen_test_receipt.py`를 실행하고 `tools/test-images/demo_scenarios.html`을 모니터에 띄운다(버튼 ①~④로 그림 전환). 영수증은 만든 시각부터 24시간 안에만 유효하고, 같은 영수증은 한 번만 쓸 수 있다.
-
-| 시나리오 | 방법 | 기대 결과 |
-|---|---|---|
-| 1. 인증 전에는 리뷰 불가 | 가게 상세 > 평점과 리뷰 | "방문 인증한 사람만 평점을 남길 수 있어요", 작성 버튼 없음 |
-| 2. 영수증 바로 인증 | ① `test_receipt_today.png`를 앱 카메라로 촬영 | 도장 연출 → 가게 상세에서 리뷰 작성(이 기기에만 저장, 평균·개수에 합산) |
-| 3. 영수증 실패 → 가게 사진 인증 | 흐릿하게/가려서 3번 실패 또는 "가게 사진으로 인증하기" → 위치 확인(30m) → ④ 간판 또는 메뉴판 촬영 | 도장(방법: 가게 사진) → 리뷰 작성. 글자 확인이 3번 실패해도 30m 안이면 "위치 확인 도장" 선택지(설정 스위치로 끌 수 있음) |
-| 4-a. 24시간 지난 영수증 | ② `test_receipt_expired.png` 촬영 | "영수증이 24시간이 지났어요"(E_RECEIPT_EXPIRED) → 가게 사진 인증으로 이어가기 |
-| 4-b. 다른 가게 영수증 | ③ `test_receipt_other.png` 촬영 | "영수증의 가게 이름이 달라요"(E_RECEIPT_MISMATCH) |
-| 다시 처음부터 | "테스트 가게·기록 삭제" → 다시 만들기, 영수증 이미지 다시 생성 | 방문 기록·내 리뷰가 지워짐 |
-
-> 시험용 가게의 도장·리뷰는 서버에 올라가지 않고 세월·하루 한도에도 들어가지 않는다. 리뷰에는 사진을 카메라·앨범에서 최대 3장 붙일 수 있고(2026-10-20 추가), 가게 사진 인증의 인증샷은 기기에만 보관되어 도장 상세에서 보인다.
-
-## 2026-10-21 추가 시연 시나리오 (AI·연출)
-공통: 처음 AI 기능을 쓸 때 "AI 분석 안내" 동의 대화상자가 한 번 뜬다(동의하면 이후 안 뜸). 인터넷 필요. 영수증 이미지는 `python tools/gen_test_receipt.py` 후 `tools/test-images/demo_scenarios.html`(탭 ①~⑦)을 모니터에 띄워 앱 카메라로 촬영.
-
-| 시나리오 | 방법 | 기대 결과 |
-|---|---|---|
-| A. 스캔 연출(성공) | 시험용 가게 > 방문 인증 > ① `test_receipt_today.png` 촬영 | 찍은 영수증 위를 **빨간 레이저**가 위아래로 훑고 → 인식한 글자에 **형광펜**이 차례로 칠해짐 → 도장 쾅 → 폭죽 |
-| B. AI 촬영 도우미(위쪽 잘림) | ⑤ `test_receipt_cut_top.png` 촬영 | 형광펜 연출 후 "영수증의 가게 이름이 달라요" + **AI 촬영 도우미** 팝업("가게 이름이 잘렸어요, 위쪽까지 찍어 주세요" 류). "다시 찍기" 누르면 카메라로 복귀 |
-| C. AI 촬영 도우미(흐림/어두움) | ⑥ `test_receipt_blur.png`, ⑦ `test_receipt_dark.png` 촬영 | 글자를 못 읽었다는 안내 + AI가 초점·밝기 조언 |
-| D. 한 번에 안 되는 경우 | B→"다시 찍기"→ ① 정상 영수증 | 정상 인증으로 이어짐 |
-| E. AI 번역 | 가게 상세 > 소개글 아래 "AI 번역" > English/日本語/… 또는 "직접 입력"(예: Thai) | 소개글·한 줄 소개·리뷰가 선택한 언어로 바뀜, "원문 보기"로 복귀 |
-| F. AI 노포 도우미 | 지도 탭 맨 위 "AI 노포 도우미" > 예시 칩 3개(말로 찾기·천년 경로·오늘의 코스) | 추천 가게 카드(눌러서 상세 이동). 앱을 닫았다 열어도 대화 기록이 남음, "기록 지우기"로 삭제 |
-| G. AI 메뉴 룰렛·리뷰 분석 | 패스포트 > "AI 메뉴 룰렛"(다시 돌리기 최대 10번), 가게 상세 > "AI로 리뷰 분석하기" | 메뉴 3개씩(중복 없음) / 특장점·추천 메뉴·아쉬운 점 |
-
-주의: 영수증 사진은 AI 촬영 도우미를 위해 **인식에 실패했을 때만** Gemini로 전송되고(동의 필요) 저장하지 않는다. 레이저·형광펜 연출 위치는 촬영 순간의 장면 기준이라 사진이 비스듬하면 약간 어긋날 수 있다.

diff --git a/docs/dev-status.md b/docs/dev-status.md
@@ -10,6 +10,9 @@
 
 **한 줄 요약(최근 세션):** 시연용 리뷰·사진·패스포트, 명예의 전당, 위치 시연 가게(시험용 가게), 공유 카드+QR, 칭호 11단계(100년 단위)+도감, 도장·승급 연출, 리뷰 사진 3장(카메라+앨범)·가게당 5개 리뷰, Gemini AI(메뉴 룰렛·리뷰 분석), Google Places 대표 사진.
 
+### 시연 시나리오 (2026-10-21 정리)
+- **단일 출처:** `docs/demo-guide.md` 3·3-1장 + `tools/test-images/demo_scenarios.html`(`python tools/gen_test_receipt.py`로 생성, 지난 그림은 자동 삭제). 영수증·간판·메뉴판은 모두 `노포천년테스트식당` 기준이며 이 가게는 설정 5탭 > 개발자 도구 "테스트 가게 만들기 (현재 위치)"로 **지금 서 있는 자리**에 만든다(위치 30m 시험 가능). 이전 문서의 `test_receipt_today/live` 이름은 폐기됨(`test_receipt_a/b/c`로 대체).
+
 ### 기기·계정
 - 폰 ① Galaxy Z Fold SM-F971N(Android 17, adb `R5KL806MA4W`, 사용자 본인 폰 — 조작 중 알림이 뜨면 자동 조작 중단) ② **Galaxy S9+ SM-G965N(Android 10, adb `212340b20e017ece`, 1080×2220) — 시험 전용 새 폰.** 둘 다 디버그/릴리스 APK가 같은 릴리스 키로 서명돼 덮어 설치(`adb install -r`)된다.
 - S9+에는 시험 계정(닉네임 `s9t5017`)이 로그인돼 있다. 자격 증명은 이 PC의 에이전트 작업 폴더에만 있고 저장소·문서에 없다. 사용자 본인 계정(`nptNew1`)으로 바꾸려면 설정에서 로그아웃 후 로그인.
